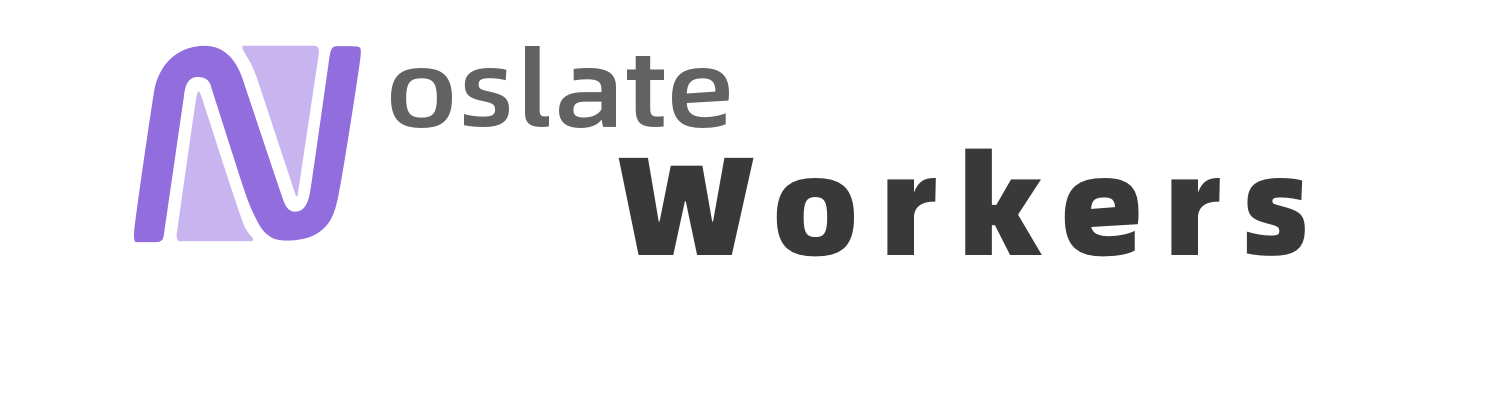
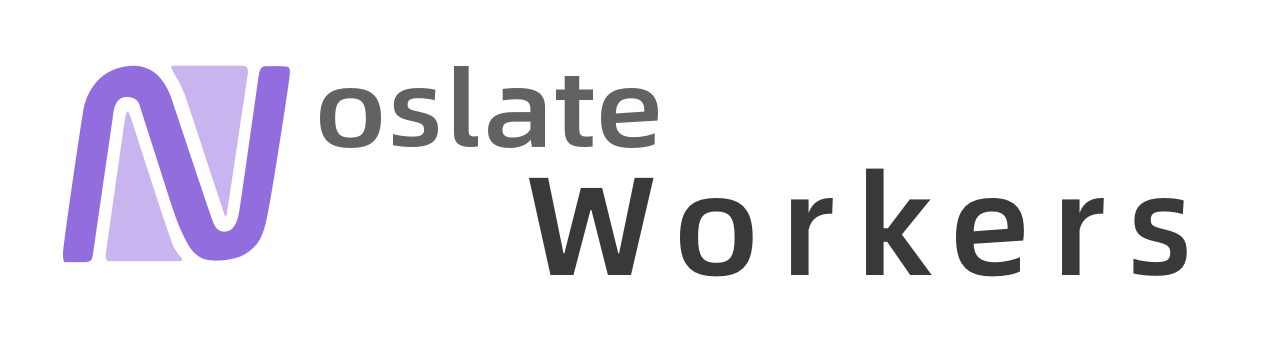
docs: project intro and nodejs dist

Changed region(s): [[0.0307, 0.118, 0.952, 0.826]]

diff --git a/site/src/components/CoreFeatures.tsx b/site/src/components/CoreFeatures.tsx
@@ -87,12 +87,12 @@ function Feature(props: FeatureProps) {
 const featurs = [
   {
     icon: 'icon-huojiancopy',
-    title: 'Serverless Worker',
-    description: `全托管 JavaScript 云原生运行时架构`,
+    title: 'Noslate Workers',
+    description: `WinterCG 规范的 Web 标准轻量运行时`,
   },
   {
     icon: 'icon-nintendogamecube',
-    title: 'Debugger',
+    title: 'Noslate Debugger',
     description: '面向崩溃和异常场景 Corefile 离线诊断',
     isMiddle: true
   },

diff --git a/site/lib/navbar.js b/site/lib/navbar.js
@@ -14,12 +14,12 @@ module.exports = [
   {
     "type": "doc",
     "docId": "debugger/intro",
-    "label": "Debugger",
+    "label": "Noslate Debugger",
     "position": "left"
   },
   {
     "type": "doc",
-    "docId": "node_js/index",
+    "docId": "node_js/intro",
     "label": "Node.js Distribution",
     "position": "left"
   },

diff --git a/site/docs/node_js/rrc.md b/site/docs/node_js/rrc.md
@@ -1,5 +1,141 @@
-# Noslate Node.js 发行版
+# 用户代码加载加速
 
-Noslate Node.js 发行版主要是面向 Serverless 弹性场景进行优化，提供了极致的弹性优化。主要包括 Require 关系加速、Bytecode Cache。目前阿里云函数计算的 Node.js 14/16 即采用该发行版。
+PGO（Profile Guided Optimization），是一种根据运行时 Profiling Data 来进行优化的技术。Alinode PGO 主要是通过执行一遍之后收集启动阶段的热点数据生成缓存文件，后续通过加载高效的缓存文件启动即可获得提升在 100% 到 200% 的用户代码冷启动优化效果。
+
+## 核心原理
+
+### Require 关系 Cache
+
+在 Node.js 的用户代码加载中，我们发现大量磁盘 IO 都是用来查找 node_modules，耗去了大量的启动时间。
+
+在一个文件中进行 `require` 一个 `a`，它会通过一系列寻径，最终得到对应的 `a` 对应文件的绝对路径；而同样在另一个文件中也进行 `require` 一个 `a`，其得到的绝对路径可能就不相同了。PGO 将不同文件里面 `require` 各种字符串得到的结果关系一一对应起来，得到一份二维 map。有了这一份关系数据，对 `require` 函数进行改造，在寻径逻辑前加一段逻辑，即从 Map 中查找对应关系，若找到了对应关系，则直接返回对应内容；若找不到，则使用原始的寻径逻辑进行兜底，从而实现加速。
+
+### ByteCode Cache
+
+在反复 `require` 的逻辑中，反复判断文件是否存在是一个扎堆的逻辑，而另一个扎堆的问题就是反复读取碎片文件。
+
+PGO 的 `Require Cache` 中除了之前提到的关系之外，还会存储：
+
+1. 源文件的文本信息；
+2. 源文件编译出来的 V8 byte code。
+
+这些信息与关系信息一并结构化存储于一个缓存文件中，使得我们一加载这个缓存文件，无须经过任何反序列化的步骤，就可以直接使用该 Map。
+
+有了这么一个文件，我们只需要在进程刚启动的时候加载一遍缓存文件。然后每次 require 的时候，都直接从缓存关系中查找出来对应的文件，再从缓存中获取该文件的源代码文本及其 byte code，直接加载。
+
+这么依赖，我们省去的就是：
+
++ 寻径时间（反复 statx，在 Node.js 中的封装逻辑更为复杂）；
++ 读取文件时间（反复 openat，经 Node.js 封装逻辑更为复杂）；
++ 源代码文本编译执行缩减为 byte code 编译执行。
 
 
+## API 使用介绍
+
+该技术使用分为两个部分录制文件，和加载缓存文件。
+
+**录制缓存文件：**
+
+在全部模块加载完毕后使用如下语句进行录制，这样您的工作目录下就会出现 `require_cache.strrc` 缓存文件。
+
+```javascript
+const rrc = require('alinode/relational_require_cache');
+const pgoEntries = [ process.cwd(), path.join(__dirname, 'node_modules') ];
+rrc.record(pgoEntries);
+```
+
+**加载缓存文件：**
+
+在 Node.js 执行的一开始就执行下面的语句即可使缓存生效。
+
+```javascript
+const rrc = require('alinode/relational_require_cache');
+const pgoFilePath = path.join(__dirname, 'require_cache.strrc');
+const pgoEntries = [ process.cwd(), path.join(__dirname, 'node_modules') ];
+if (fs.existsSync(pgoFilePath)) {
+  rrc.load(pgoFilePath, pgoEntries);
+}
+```
+
+规模化集成使用，可以参考 Serverless Devs 的 [PGO 组件](https://github.com/midwayjs/pgo)的实现方式。
+
+## 在阿里云函数计算中体验
+
+目前 Noslate 发行版本已经在阿里云函数计算自 Node.js 14 起版本全量提供，只要使用 Node.js 14 版本即可使用。
+
+目前与 [Serverless Devs](https://www.serverless-devs.com/zh-cn) 实现了集成，可以通过 Serverless Devs 的 `s cli` 直接使用。
+
+1. 在 `s.yaml` 中的 service actions 中添加 `pre-deploy` ，配置 run 命令为 `s cli pgo`，如图所示
+
+
+![](https://gw.alicdn.com/imgextra/i2/O1CN01I1r4Px1zLjaHcU0ZD_!!6000000006698-2-tps-1646-642.png)
+
+2. 将 `s.yaml` 中的 runtime 改为 `nodejs14`
+
+3. 部署函数
+```shell
+s deploy
+```
+
+4. 调用函数
+```shell
+s cli fc-api invokeFunction --serviceName fctest --functionName functest1 --event '{}'
+```
+
+### 参数
+
+可以通过 `s cli pgo gen --参数key 参数value` 来传递参数
+
++ `remove-nm`：构建完成 pgo 后自动删除 node_modules， `s cli pgo gen --remove-nm`
+
+### 生成详细过程
+#### 1. 基于当前项目代码，生成PGO文件
+![](https://gw.alicdn.com/imgextra/i2/O1CN01XHeTqp1cXsvsuRAyq_!!6000000003611-2-tps-1164-930.png)
+#### 2. 将生成的 PGO 文件存入项目目录
+![](https://gw.alicdn.com/imgextra/i2/O1CN01xp4Du11Xq8dg742js_!!6000000002974-2-tps-1050-629.png)
+#### 3. 线上使用 PGO 文件加速启动
+![](https://gw.alicdn.com/imgextra/i4/O1CN01OGG21g1VhJmLQlEAS_!!6000000002684-2-tps-886-506.png)
+
+
+## 优化效果
+
+我们以一个简单的测试程序来验证实际效果，下面是示例。
+
+```javascript
+require('eslint');
+require('lodash');
+require('midway');
+require('webpack');
+require('jsdom');
+require('mysql2');
+require('sequelize');
+
+exports.handler = (event, context, callback) => {
+  callback(null, {
+    versions: process.versions
+  });
+}
+```
+
+可以看到，未使用 PGO 并且在仅安装 Production 依赖的情况下，冷启动时请求执行时间达到 3069.39 ms。
+
+
+![](../assets/pgo_before.png)
+
+### PGO 优化冷启动
+
+向现有的函数代码包增加 PGO 缓存文件，下图可以看到采用 PGO 缓存进行冷启动，时间降到了 1254.43 ms。约等于减少了 61% 的冷启动时间，提升 150% 左右。
+
+![](../assets/pgo_after1.png)
+
+### 仅使用 PGO 缓存启动
+
+在大多数情况下，如果您的业务代码可控，所有模块依赖都已经在初始化阶段引入，也可以尝试只保留 PGO 缓存文件来启动（即删除 node_modules）。因为减少了至少一半的代码包大小以及减少了碎文件数量，这样会极大的降低代码包下载和代码包解压的时间，在类似真实情况的压测场景有所体现，下图 P50 到 P99 百分数指标都有较大比重的下降。
+
+现有代码包附加 PGO 缓存：
+
+![](../assets/pgo_after2.png)
+
+只使用 PGO 缓存启动（删除 node_modules）：
+
+![](../assets/pgo_after3.png)

diff --git a/site/docs/project/intro.md b/site/docs/project/intro.md
@@ -1,4 +1,42 @@
-# 什么是 Noslate Project ?
+# Noslate 项目整体介绍
+
+Noslate 是阿里巴巴集团在 Node.js/V8 领域研发产出的综合项目，由大淘宝技术部和阿里云基础软件部共同发起。主要意在提高云原生场景下 JavaScript 的调度性性能和诊断性黑盒问题。目标让 JavaScript 任务在云原生时代拥有更高的调度灵活性，进而满足泛终端、全栈等领域的交付和托管需求。目前相关软件已经在阿里集团内部关键场景应用，亦在阿里云部分公有云产品中采用。
+
+主要由 Workers、Debugger、Node.js Distribution 三个部分组成，下面是初步的介绍。
+
+### 一、Noslate Workers
+
+<div style={{maxWidth: "800px"}} >
+
+![Noslate Workers](../assets/noslate-workers.png)
+
+</div>
 
 
-三个部分的介绍
+自研符合 W3C WinterCG 规范的 Web 标准轻量运行时，配套提供整体的上位管控软件，形成完整解决方案。软件亮点有 Warmfork 和 Snapshot 特性来提供 —— 高效的带业务启动状态的单机或分布式任务分发扩展。
+
+[详细了解...](../noslate_workers/intro)
+
+### 二、Noslate Debugger
+
+<div style={{maxWidth: "800px"}} >
+
+![Noslate Debugger](../assets/noslate-db.png)
+
+</div>
+
+面向 Node.js/V8 的离线 Corefile 调试工具，提供 V8 堆内存检查、Heap Snapshot 诊断文件导出、Backtrace 等特色调试功能，并配套一个高性能的运行态 Corefile 获取和压缩工具。
+
+[详细了解...](../debugger/intro)
+
+### 三、Noslate Node.js Distribution
+
+<div style={{maxWidth: "800px"}} >
+
+![Noslate Node.js Distribution](../assets/noslate-an.png)
+
+</div>
+
+面向弹性场景进行优化，提高了用户代码的加载速度提高冷启动效率，主要包括 Require 关系加速、Bytecode Cache。同时包含来自阿里云基础软件团队的 ARM 架构的性能优化特性。
+
+[详细了解...](../node_js/intro)

diff --git a/site/docs/debugger/arthur.md b/site/docs/debugger/arthur.md
@@ -1,0 +1,83 @@
+# Arthur 高效的 Corefile 生成器
+
+
+***注意：当前版本文档为预览版，不够完善还请谅解。***
+
+Arthur uses fork() to reduce the pausing lag, and lz4 to reduce the corefile size.
+
+Capture a corefile by arthur,
+
+```
+arthur -p <pid>
+```
+coredump will be saved to acore.pid.
+
+Acore is the new corefile format used in Arthur, 
+
+Convert Acore to GNU corefile, 
+```
+arthur -c <acore.pid>
+```
+GNU corefile will be saved to core.pid.
+
+### arthur vs gcore
+
+based on 1.7GB node process,
+
+| - | arthur | gcore |
+| --- | --- | --- |
+| process paused time | 30ms | 1.6s |
+| realtime cost | 0.641s | 1.639s |
+| corefile size | 16MB | 1.7GB |
+
+
+arthur log,
+```
+arthur[50752] I: Process 50519 paused 29.138 ms.
+arthur[50752] I: Compressed 1719906691 bytes into 15628790 bytes ==> 0.91%
+
+real    0m0.641s
+user    0m0.277s
+sys     0m0.316s
+```
+
+gcore log,
+```
+Saved corefile core.50519
+
+real    0m1.639s
+user    0m0.267s
+sys     0m1.371s
+```
+
+file size compare,
+```
+$ls -al core.50519 acore.50519
+-rw-r--r-- 1 zlei users   15712205 Mar 18 20:08 acore.50519
+-rw-r--r-- 1 zlei users 1699545344 Mar 18 20:08 core.50519
+```
+
+### Advanced Usage
+
+Fork coredump mode, (default)
+```
+arthur -p <pid> -0
+```
+
+Gcore mode,
+```
+arthur -p <pid> -1
+```
+
+Kernel coredump mode,
+```
+arthur -p <pid> -2
+```
+
+Monitor mode,
+
+```
+arthur -p <pid> -3
+```
+
+only supports x86_64 Linux.

diff --git a/site/docs/debugger/intro.md b/site/docs/debugger/intro.md
@@ -1,10 +1,14 @@
-# 什么是 Noslate Debugger ?
+# Noslate Debugger 介绍
 
-注意：当前版本文档为预览版。
+***注意：当前版本文档为预览版，不够完善还请谅解。***
 
-Noslate Debugger 是适用于 gdb/lldb 的 v8 离线调试工具，一般用于调试 v8 的 core 文件。
+<div style={{maxWidth: "800px"}} >
 
-下文使用 `andb` 代指 Noslate Debugger，主要因为本产品内部代号原名为 Alinode Debugger，不易修改。
+![Noslate Debugger](../assets/noslate-db.png)
+
+</div>
+
+Noslate Debugger 是适用于 gdb/lldb 的 v8 离线调试工具，一般用于调试 v8 的 core 文件。下文会使用 `andb` 代指本项目，为 Alibaba Noslate Debugger 的缩写。
 
 
 ### 主要功能

diff --git a/site/docs/node_js/versions.md b/site/docs/node_js/versions.md
@@ -1,5 +1,9 @@
-# Noslate Node.js 发行版
+# 版本历史
 
-Noslate Node.js 发行版主要是面向 Serverless 弹性场景进行优化，提供了极致的弹性优化。主要包括 Require 关系加速、Bytecode Cache。目前阿里云函数计算的 Node.js 14/16 即采用该发行版。
+版本原则，追踪 LTS 版本更新提供版本，当前自 Node.js 16 开始提供发行版。版本历史如下：
 
+### v16.15.1
 
+* 更新原因：初始版本
+* 下载地址：
+  * [https://github.com/noslate-project/node/releases/tag/noslate-v16.15.1-release](https://github.com/noslate-project/node/releases/tag/noslate-v16.15.1-release)

diff --git a/site/docs/noslate_workers/intro.md b/site/docs/noslate_workers/intro.md
@@ -2,7 +2,11 @@
 
 <p style={{ fontSize: '2rem', fontWeight: 'bold' }}>Noslate Workers - 轻量 JavaScript Serverless 解决方案</p>
 
+<div style={{maxWidth: "800px"}} >
+
 ![Noslate Workers](../assets/noslate-workers.png)
+
+</div>
 
 依托淘宝 Node.js 团队自研的 Web-interoperable 运行时 Aworker，提供了一个 <span style={{ fontSize: '1.2rem', fontWeight: 'bold', color: '#926DDE' }}>轻量</span>，<span style={{ fontSize: '1.2rem', fontWeight: 'bold', color: '#926DDE' }}>近乎 0 冷启动</span> 的 JavaScript Serverless 运行环境。通过它，可以轻松的在已有的架构中集成 Serverless 能力。
 

diff --git a/site/docs/node_js/arch.md b/site/docs/node_js/arch.md
@@ -1,5 +1,13 @@
-# Noslate Node.js 发行版
+# 面向平台架构的优化
 
-Noslate Node.js 发行版主要是面向 Serverless 弹性场景进行优化，提供了极致的弹性优化。主要包括 Require 关系加速、Bytecode Cache。目前阿里云函数计算的 Node.js 14/16 即采用该发行版。
+*** 相关特性还在分支中 *** 
 
+at 严懿宸
 
+## 为什么面向特定平台架构优化？
+
+说明一下原因。针对阿里云支持的芯片提供定制优化，龙蜥社区合作的解决方案。
+
+## 一、Zlib 特性优化
+
+相关特性还在分支中

diff --git a/site/docs/node_js/intro.md b/site/docs/node_js/intro.md
@@ -1,0 +1,12 @@
+# Noslate Node.js 发行版介绍
+
+<div style={{maxWidth: "800px"}} >
+
+![Noslate Node.js Distribution](../assets/noslate-an.png)
+
+</div>
+
+面向弹性场景进行优化，提高了用户代码的加载速度提高冷启动效率，主要包括 Require 关系加速、Bytecode Cache。同时包含来自阿里云基础软件团队的 ARM 架构的性能优化特性。
+
+
+
